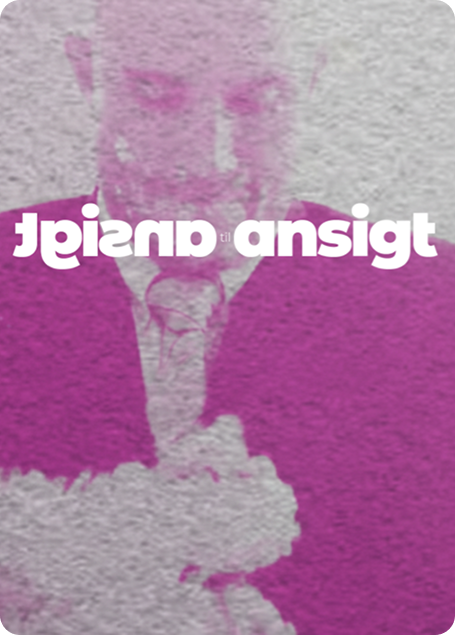
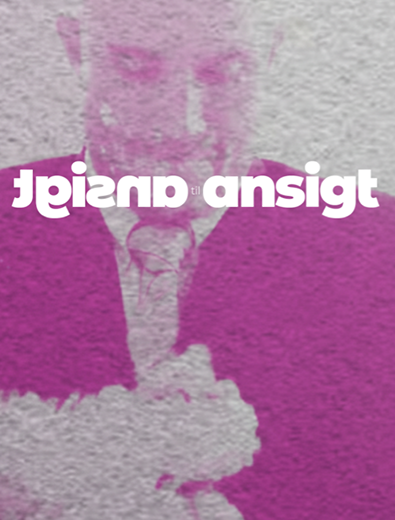
lilcard fix

diff --git a/src/styles/general.css b/src/styles/general.css
@@ -1,23 +1,30 @@
 @import url("https://fonts.googleapis.com/css2?family=Montserrat:ital,wght@0,100..900;1,100..900&display=swap");
 @import url("https://fonts.googleapis.com/css2?family=Montserrat+Alternates:ital,wght@0,100;0,200;0,300;0,400;0,500;0,600;0,700;0,800;0,900;1,100;1,200;1,300;1,400;1,500;1,600;1,700;1,800;1,900&display=swap");
-p {
-  font-family: "Montserrat", sans-serif;
-  font-optical-sizing: auto;
-  font-weight: 500;
-  font-style: normal;
+
+* {
+  box-sizing: border-box;
+  padding: 0;
+  margin: 0;
 }
+
 h1,
 h2 {
   font-family: "Montserrat Alternates", sans-serif;
   font-weight: 900;
   font-style: normal;
 }
+p {
+  font-family: "Montserrat", sans-serif;
+  font-optical-sizing: auto;
+  font-weight: 500;
+  font-style: normal;
+}
+
+img {
+  max-width: 100%;
+}
 
 .cards {
   display: grid;
   grid-template-columns: repeat(auto-fit, minmax(250px, 1fr));
-}
-* {
-  padding: 0;
-  margin: 0;
 }
